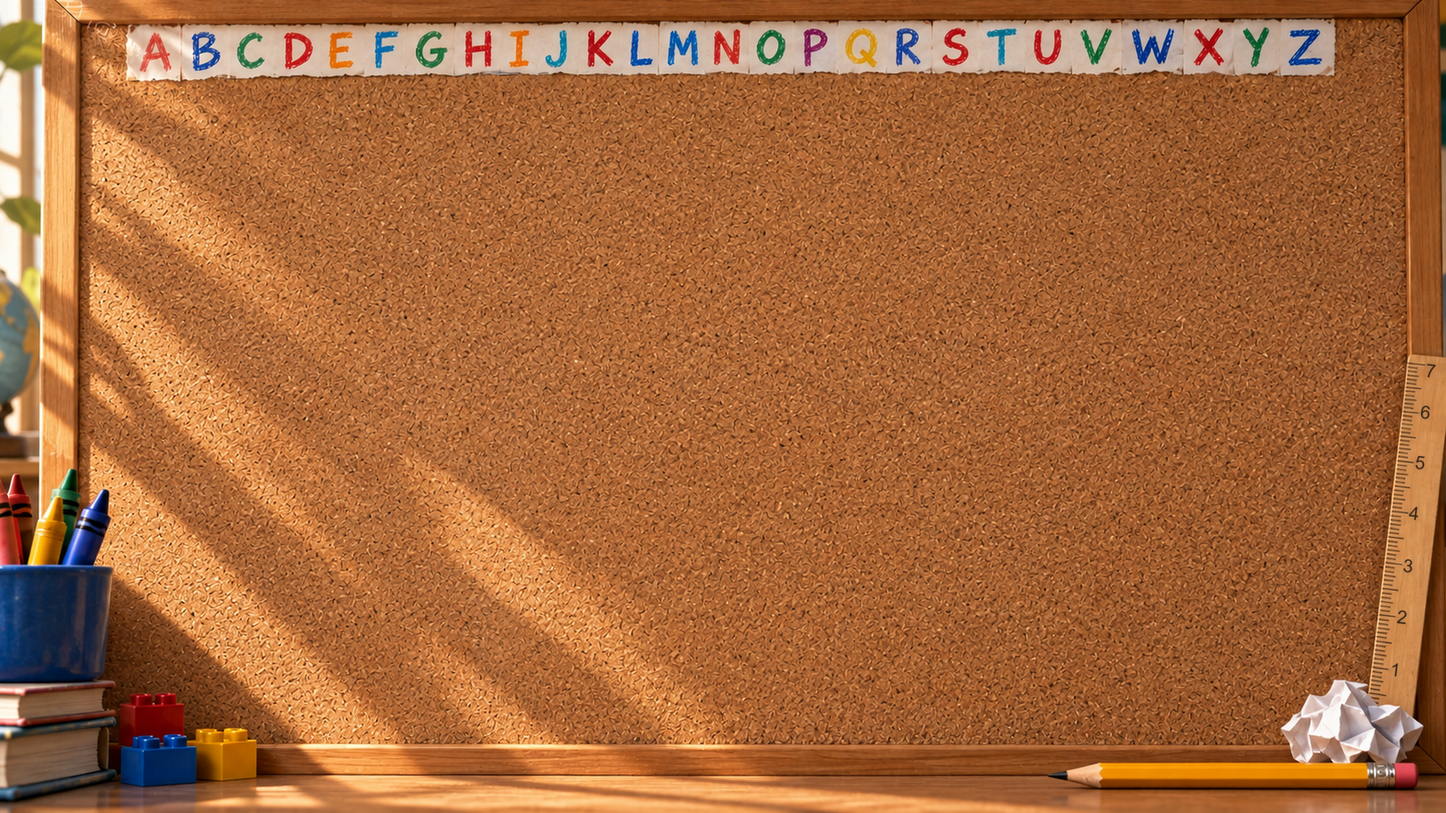
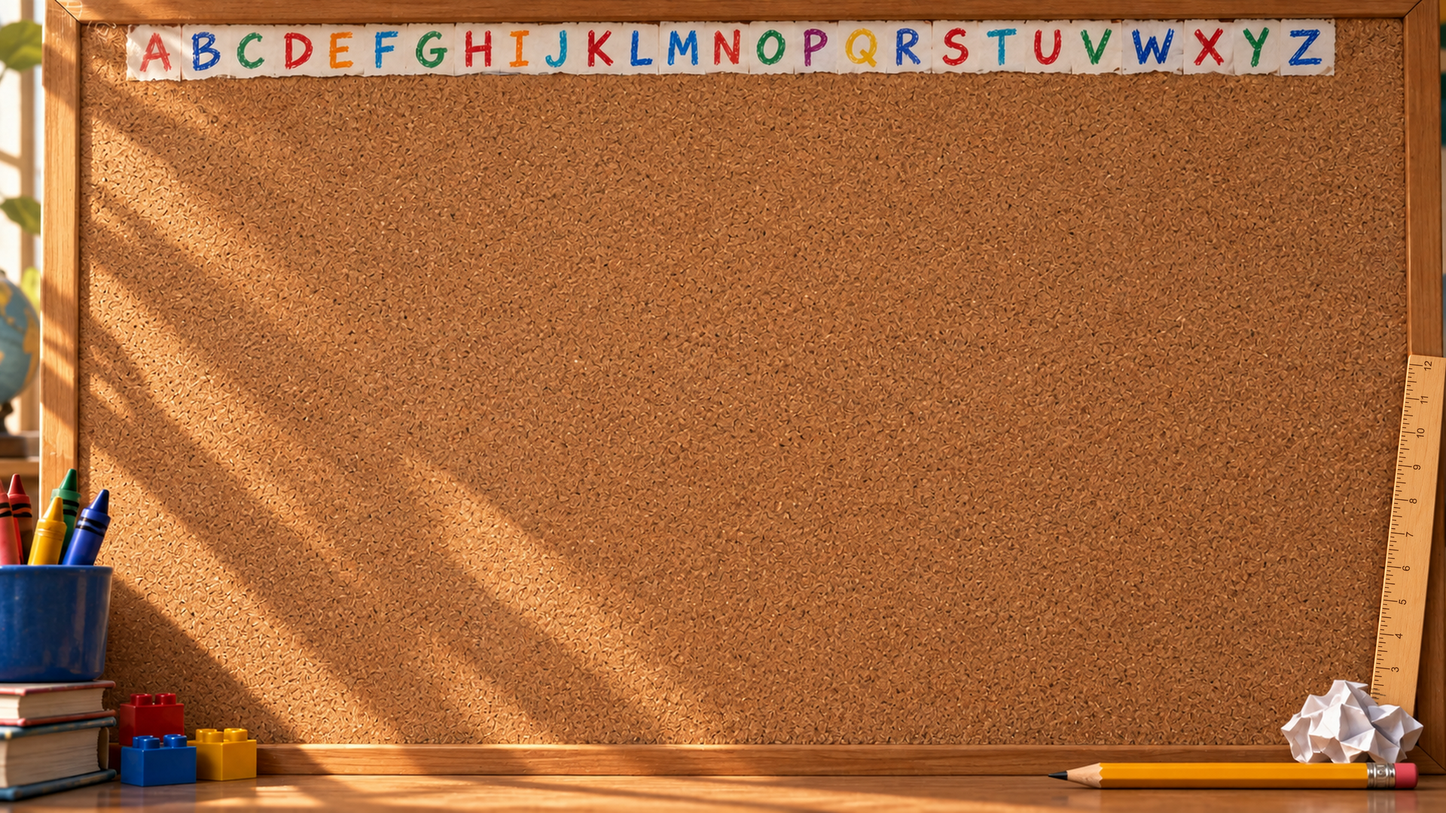
Main menu: ruler reads 3 to 12, right way up (new background tiles)
Main: 3deb590f2b405e0a4375f54008dab118328b9e6a

Changed region(s): [[0.9375, 0.4278, 1.0, 0.8556]]

diff --git a/docs/systems/menus-and-hud.md b/docs/systems/menus-and-hud.md
@@ -8,6 +8,8 @@ Stage 6 approved by Alan (2026-10-13) after the on-brand HUD restyle. Edge arrow
 Event messages and kill-feed lines now rotate (`src/shared/Lines.luau`); death lines say how it happened (weapon, the
 building or thing hit, who chased or rammed you), the same line on your note and in the feed. Seen in Studio Play 2026-10-17 except the
 between-rounds lines. Warnings (INCOMING!, LOCKED ON!), zone words and error messages stay fixed on purpose.
+Main-menu ruler repainted by Codex (reads 3 to 12, right way up; 1 and 2 behind the paper ball), uploaded and seen
+in Play 2026-10-17.
 Level bar with next unlock on the main menu board's stats card, in the hangar under the plane, and on the results card
 (seen 2026-10-17; partly filled bar seen on a test screen, the test account is at max level).
 

diff --git a/docs/workshop/lessons.md b/docs/workshop/lessons.md
@@ -171,5 +171,6 @@ mistake would be easy to make twice.
   (`src/client/WinnersCutscene.luau`). Test a new animation on a big avatar by measuring head-to-root drift.
 - **Starting a round in place:** planes carried over keep their old team; clear it and join them to the new round
   before bots fill desks, or the roster rejects them (`invalid_actor_team` / `unexpected_actor_team`).
+- **Codex picture jobs in a scratch folder** need `codex exec --skip-git-repo-check`, or Codex refuses to run outside a git folder.
 
 Back to [HOME](../HOME.md)
